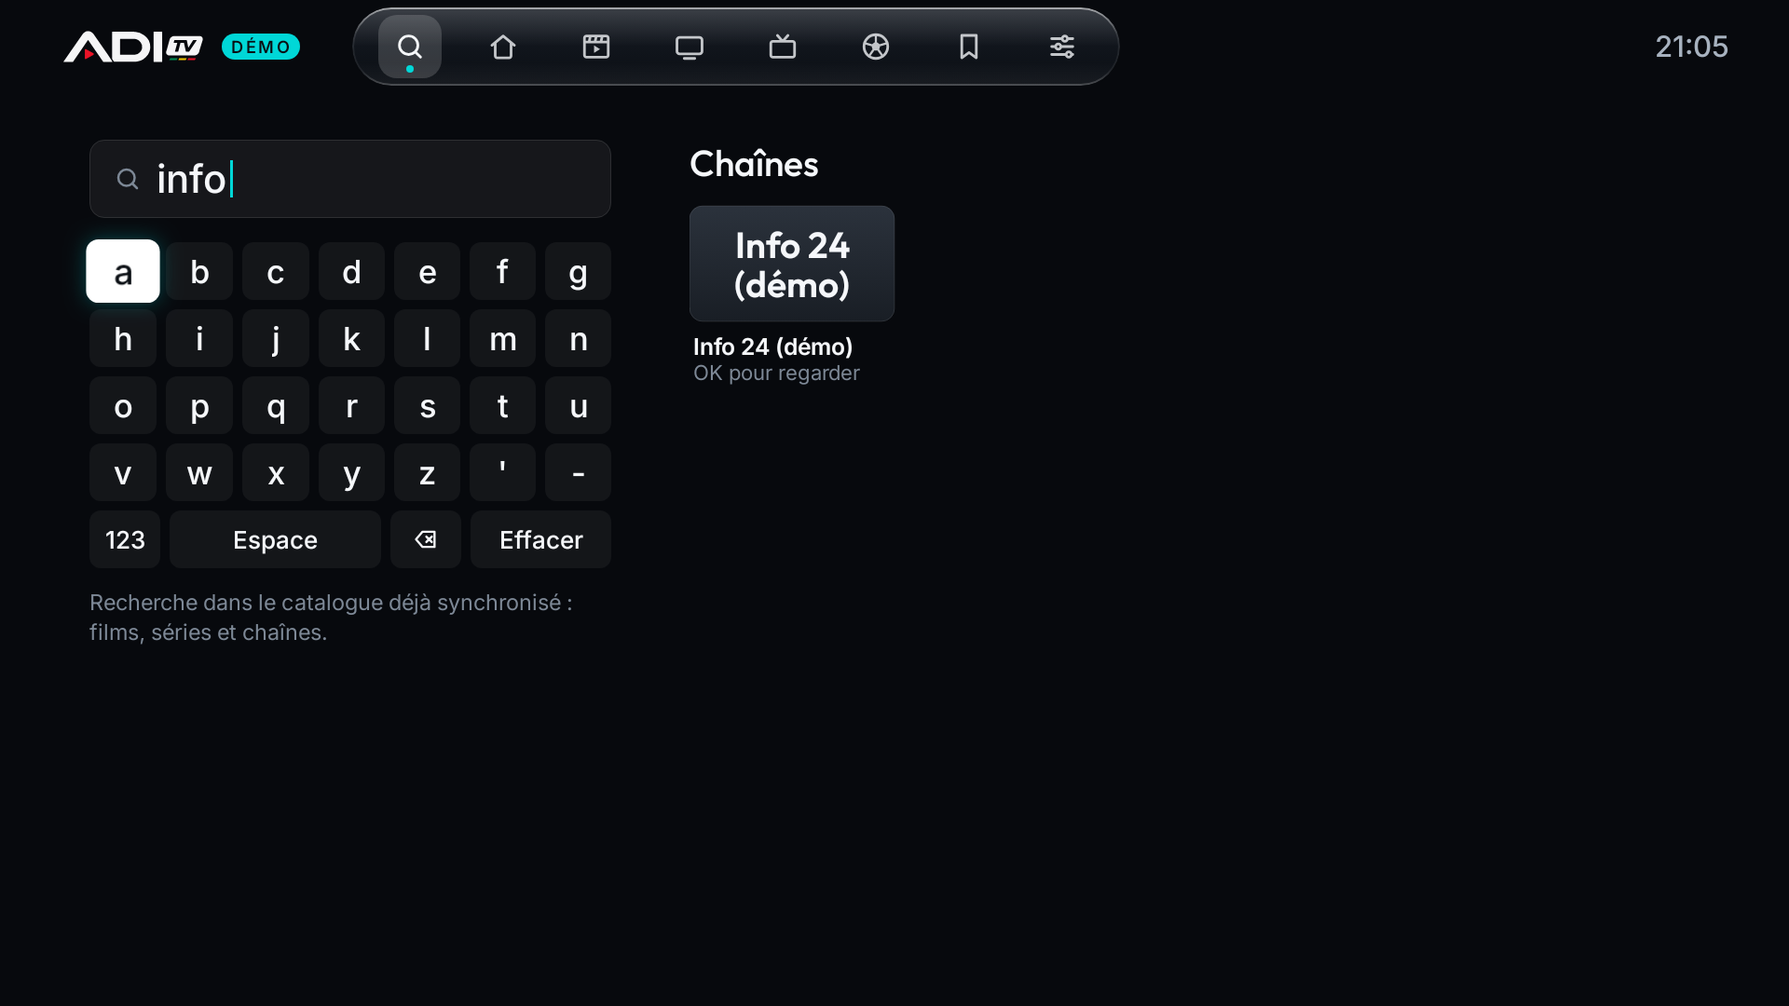
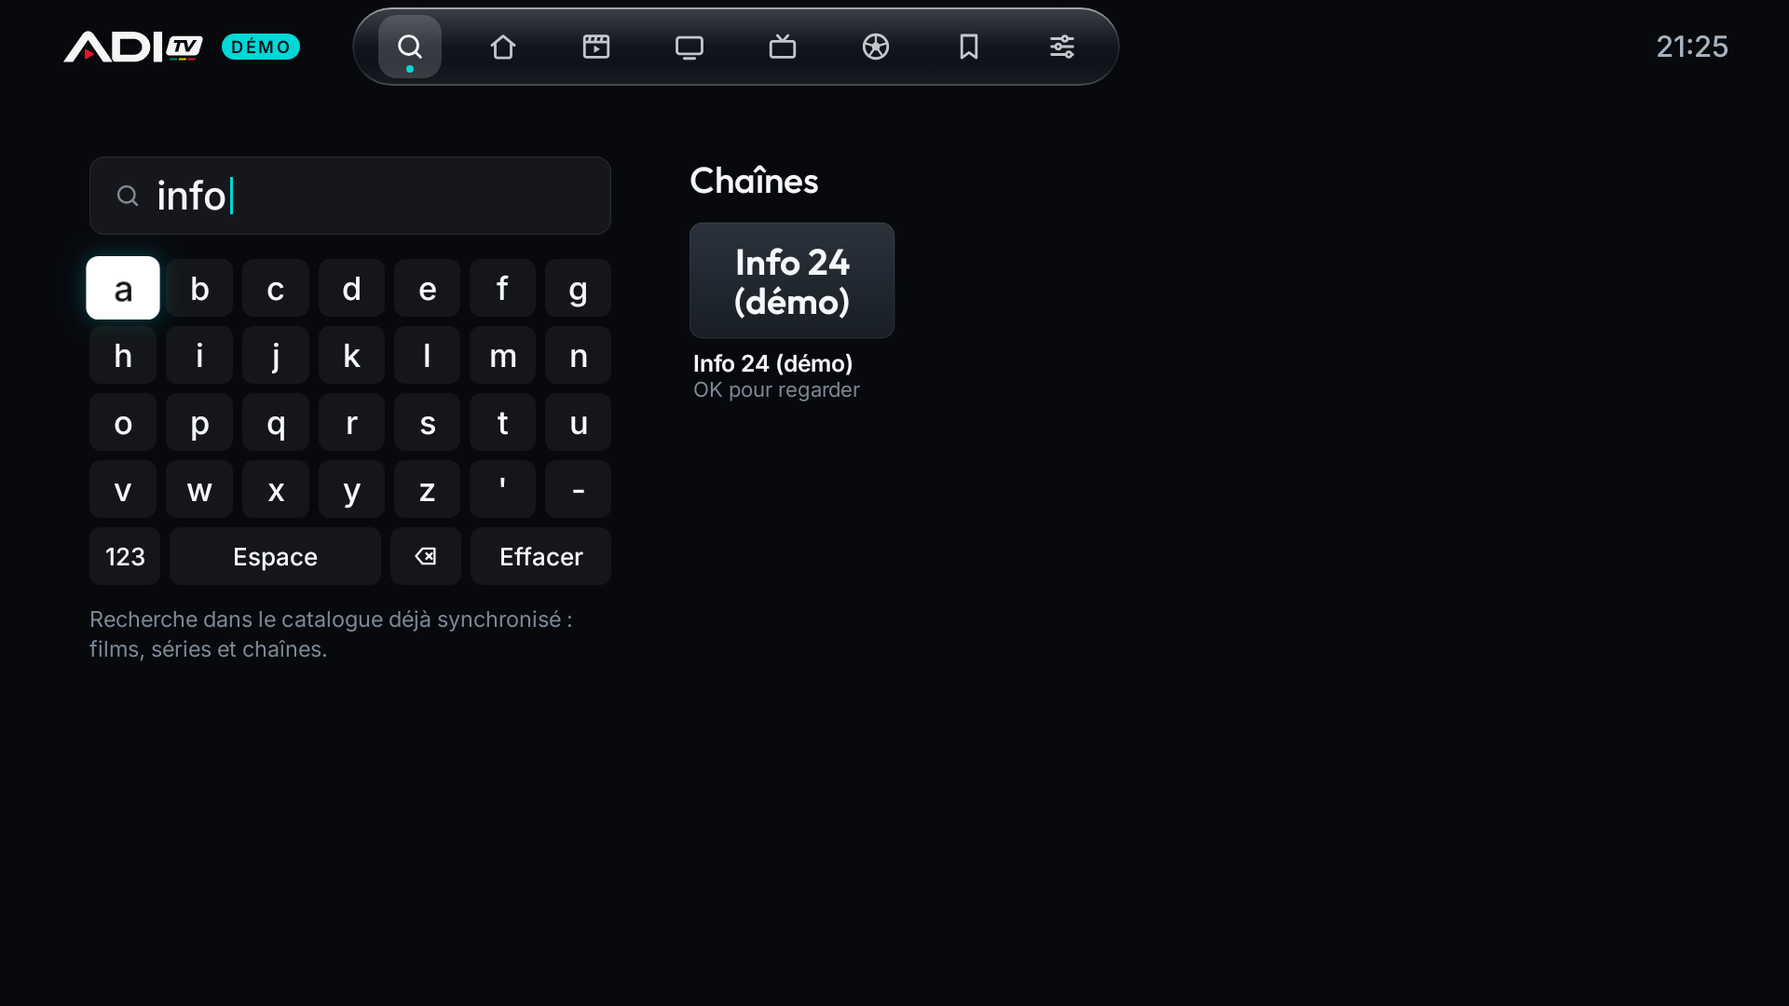
Menu comme avant + espace, FootAdi rapide, pas de pause au lancement, essais auto HTTP 458 (0.15.4)
Claude-Session: https://claude.ai/code/session_01AJPCu4ef6KQSU8xjVPyLKo

diff --git a/app/src/main/java/com/aditv/ui/foot/Broadcasts.kt b/app/src/main/java/com/aditv/ui/foot/Broadcasts.kt
@@ -30,10 +30,10 @@ object Broadcasts {
         return words.ifEmpty { listOf(n) }
     }
 
-    fun mentions(title: String, team: String): Boolean {
-        val t = " " + FootballRepository.norm(title) + " "
-        return tokens(team).any { k -> t.contains(" $k ") || (k.length >= 5 && t.contains(k)) }
-    }
+    fun mentions(title: String, team: String): Boolean = mentionsNorm(" " + FootballRepository.norm(title) + " ", tokens(team))
+
+    /** [t] : titre déjà normalisé et entouré d'espaces. */
+    private fun mentionsNorm(t: String, toks: List<String>) = toks.any { k -> t.contains(" $k ") || (k.length >= 5 && t.contains(k)) }
 
     /** Diffuseurs habituels en France (2026-2027), par compétition : utilisés seulement si le guide ne dit rien. */
     private val usual = mapOf(
@@ -42,18 +42,36 @@ object Broadcasts {
         61L to Regex("ligue ?1|bein|dazn"),
     )
 
-    suspend fun find(c: AppContainer, accountId: String, f: Fixture): List<Broadcast> {
+    suspend fun find(c: AppContainer, accountId: String, f: Fixture): List<Broadcast> = findAll(c, accountId, listOf(f))[f.id].orEmpty()
+
+    /**
+     * Toutes les chaînes de tous les matchs en UN passage : chaînes, correspondances et guide lus une seule fois,
+     * titres du guide normalisés une seule fois (avant : tout était refait pour chaque match → très lent sur la Stick).
+     */
+    suspend fun findAll(c: AppContainer, accountId: String, fixtures: List<Fixture>): Map<Long, List<Broadcast>> {
+        if (fixtures.isEmpty()) return emptyMap()
         val placed = LiveCatalog.placed(c, accountId)
         val mappings = c.db.live().mappings(accountId).associate { it.itemId to it.epgChannelId }
         val byEpg = placed.groupBy { (ch, _) -> mappings[ch.id] ?: ch.epgChannelId }
-        val progs = c.db.live().programmesStarting(accountId, f.kickoff - 45 * 60_000L, f.kickoff + 30 * 60_000L)
-        val hits = progs.filter { p -> mentions(p.title, f.home.name) && mentions(p.title, f.away.name) }
-            .flatMap { p -> byEpg[p.channelId].orEmpty() }
-        val fromGuide = rank(hits).map { Broadcast(it.first, ChannelFamilies.cleanName(it.first.title), true, it.second.french) }
-        if (fromGuide.isNotEmpty()) return fromGuide.distinctBy { it.channel.id }.take(6)
-        val r = usual[f.competition.id] ?: return emptyList()
-        return rank(placed.filter { (ch, p) -> p.family == Family.SPORT_FR && r.containsMatchIn(FootballRepository.norm(ch.title)) })
-            .take(4).map { Broadcast(it.first, ChannelFamilies.cleanName(it.first.title), false, it.second.french) }
+        val from = fixtures.minOf { it.kickoff } - 45 * 60_000L
+        val to = fixtures.maxOf { it.kickoff } + 30 * 60_000L
+        // Seulement les programmes des chaînes de l'abonnement, titres normalisés une fois.
+        val progs = c.db.live().programmesStarting(accountId, from, to)
+            .filter { byEpg.containsKey(it.channelId) }
+            .map { Triple(it.startUtc, it.channelId, " " + FootballRepository.norm(it.title) + " ") }
+        val sport = placed.filter { it.second.family == Family.SPORT_FR }.map { it to FootballRepository.norm(it.first.title) }
+        return fixtures.associate { f ->
+            val home = tokens(f.home.name); val away = tokens(f.away.name)
+            val hits = progs.filter { (start, _, t) -> start in (f.kickoff - 45 * 60_000L)..(f.kickoff + 30 * 60_000L) && mentionsNorm(t, home) && mentionsNorm(t, away) }
+                .flatMap { byEpg[it.second].orEmpty() }
+            val fromGuide = rank(hits).map { Broadcast(it.first, ChannelFamilies.cleanName(it.first.title), true, it.second.french) }.distinctBy { it.channel.id }.take(6)
+            f.id to fromGuide.ifEmpty {
+                val r = usual[f.competition.id]
+                if (r == null) emptyList()
+                else rank(sport.filter { r.containsMatchIn(it.second) }.map { it.first }).take(4)
+                    .map { Broadcast(it.first, ChannelFamilies.cleanName(it.first.title), false, it.second.french) }
+            }
+        }
     }
 
     private fun rank(list: List<Pair<CatalogCard, ChannelPlace>>) = list.distinctBy { it.first.id }

diff --git a/app/src/main/java/com/aditv/ui/shell/Shell.kt b/app/src/main/java/com/aditv/ui/shell/Shell.kt
@@ -1,6 +1,5 @@
 package com.aditv.ui.shell
 
-import androidx.compose.animation.animateContentSize
 import androidx.compose.ui.layout.layout
 import com.aditv.ui.design.liquidGlass
 import androidx.compose.ui.semantics.contentDescription
@@ -311,30 +310,33 @@ private val NavHalo = Glow(elevationColor = Color.White.copy(alpha = 0.22f), ele
 private fun NavItem(icon: Int, label: String, isSelected: Boolean, onClick: () -> Unit, modifier: Modifier) {
     var focused by remember { mutableStateOf(false) }
     val shape = RoundedCornerShape(10.dp)
-    // Au focus, la pastille blanche s'élargit et porte le nom (rien ne déborde sur l'écran en dessous).
-    Surface(
-        onClick = onClick,
-        modifier = (modifier.height(34.dp).widthIn(min = 34.dp).animateContentSize(tween(160)).onFocusChanged { focused = it.isFocused }
-            .semantics { contentDescription = label }).navSound(),
-        shape = ClickableSurfaceDefaults.shape(shape),
-        scale = ClickableSurfaceDefaults.scale(focusedScale = 1.08f),
-        glow = ClickableSurfaceDefaults.glow(focusedGlow = NavHalo),
-        colors = ClickableSurfaceDefaults.colors(
-            containerColor = if (isSelected) Color.White.copy(alpha = 0.16f) else Color.Transparent,
-            contentColor = if (isSelected) Aditv.Text else Aditv.Text.copy(alpha = 0.78f),
-            focusedContainerColor = Color.White, focusedContentColor = Aditv.OnLight,
-        ),
-    ) {
-        Box(Modifier.fillMaxHeight(), contentAlignment = Alignment.Center) {
-            Row(Modifier.padding(horizontal = if (focused) 11.dp else 8.5.dp), verticalAlignment = Alignment.CenterVertically) {
+    Box {
+        Surface(
+            onClick = onClick,
+            modifier = (modifier.size(34.dp).onFocusChanged { focused = it.isFocused }
+                .semantics { contentDescription = label }).navSound(),
+            shape = ClickableSurfaceDefaults.shape(shape),
+            scale = ClickableSurfaceDefaults.scale(focusedScale = 1.14f),
+            glow = ClickableSurfaceDefaults.glow(focusedGlow = NavHalo),
+            colors = ClickableSurfaceDefaults.colors(
+                containerColor = if (isSelected) Color.White.copy(alpha = 0.16f) else Color.Transparent,
+                contentColor = if (isSelected) Aditv.Text else Aditv.Text.copy(alpha = 0.78f),
+                focusedContainerColor = Color.White, focusedContentColor = Aditv.OnLight,
+            ),
+        ) {
+            Box(Modifier.fillMaxSize(), contentAlignment = Alignment.Center) {
                 Icon(painterResource(icon), contentDescription = null, modifier = Modifier.size(17.dp))
-                if (focused) {
-                    Spacer(Modifier.width(7.dp))
-                    Text(label, style = MaterialTheme.typography.bodyLarge.copy(fontWeight = FontWeight.SemiBold, fontSize = 11.sp), maxLines = 1)
-                }
+                if (isSelected && !focused) Box(Modifier.align(Alignment.BottomCenter).padding(bottom = 3.dp).size(4.dp).background(Aditv.Accent, CircleShape))
             }
-            if (isSelected && !focused) Box(Modifier.align(Alignment.BottomCenter).padding(bottom = 3.dp).size(4.dp).background(Aditv.Accent, CircleShape))
         }
+        // Nom sous l'icône sélectionnée à la télécommande (déborde de la capsule, sans la pousser).
+        if (focused) Text(label, style = MaterialTheme.typography.bodyLarge.copy(fontWeight = FontWeight.SemiBold, fontSize = 11.sp,
+            shadow = androidx.compose.ui.graphics.Shadow(Color.Black.copy(alpha = 0.8f), blurRadius = 8f)), color = Aditv.Text, maxLines = 1,
+            // Taille nulle pour la mise en page : le nom est centré sous l'icône sans élargir la capsule.
+            modifier = Modifier.align(Alignment.BottomCenter).layout { m, _ ->
+                val p = m.measure(androidx.compose.ui.unit.Constraints())
+                layout(0, 0) { p.place(-p.width / 2, 12.dp.roundToPx()) }
+            })
     }
 }
 

diff --git a/app/src/main/java/com/aditv/ui/player/PlayerViewModel.kt b/app/src/main/java/com/aditv/ui/player/PlayerViewModel.kt
@@ -93,6 +93,8 @@ class PlayerViewModel(
     private var fellBack = false
     private var sessionOpenedAt = 0L
     private var lastError: String? = null
+    /** Nouveaux essais automatiques quand le serveur limite les connexions (remis à zéro à chaque chaîne). */
+    private var busyRetries = 0
     private val choiceKey get() = currentItem?.variantKey ?: request?.contentId ?: contentId
 
     private val events = object : EngineEvents {
@@ -113,8 +115,21 @@ class PlayerViewModel(
                 play(r, resumeAtMs = pos, kind = EngineKind.VLC)
                 return
             }
+            // Serveur qui limite les connexions (HTTP 458, 429, 509, 503) : l'ancienne connexion (aperçu, chaîne précédente)
+            // met souvent quelques secondes à se libérer → jusqu'à 3 nouveaux essais automatiques (2 s, 4 s, 6 s).
+            if (com.aditv.playback.PlaybackErrors.serverBusy(message) && busyRetries < 3) {
+                busyRetries++
+                val r = request ?: return
+                engineNote = "Serveur occupé : nouvel essai ($busyRetries/3)…"
+                viewModelScope.launch {
+                    c.playback.release()
+                    kotlinx.coroutines.delay(2_000L * busyRetries)
+                    play(r, resumeAtMs = engine?.positionMs?.takeIf { !r.isLive && it > 0 } ?: r.startPositionMs, kind = engine?.kind)
+                }
+                return
+            }
             error = message
-            canRetry = retryable || retries < 1
+            canRetry = retryable || retries < 1 || com.aditv.playback.PlaybackErrors.serverBusy(message)
             persistSnapshot()
         }
         override fun onEnded() { viewModelScope.launch { persistSnapshot(); onEnded() } }
@@ -281,6 +296,7 @@ class PlayerViewModel(
     /** ↑ / ↓ en direct : chaîne précédente / suivante de la liste d'origine (une seule session à la fois). */
     fun zap(delta: Int) {
         if (!isLive || channels.isEmpty()) return
+        busyRetries = 0
         val key = currentItem?.variantKey
         val i = channels.indexOfFirst { it.id == currentItem?.id || (key != null && it.variantKey == key) }.coerceAtLeast(0)
         val next = channels[(i + delta + channels.size) % channels.size]
@@ -355,7 +371,7 @@ class PlayerViewModel(
     fun cancelNext() { nextJob?.cancel(); nextUp = null }
 
     fun retry() {
-        retries++
+        retries++; busyRetries = 0
         val r = request ?: run { start(); return }
         error = null
         play(r, resumeAtMs = engine?.positionMs?.takeIf { !r.isLive && it > 0 } ?: r.startPositionMs, kind = engine?.kind)

diff --git a/app/src/main/java/com/aditv/ui/player/PlayerScreen.kt b/app/src/main/java/com/aditv/ui/player/PlayerScreen.kt
@@ -99,6 +99,7 @@ fun PlayerScreen(session: Session.Active, contentId: String, fromStart: Boolean,
     val engine = vm.engine
     DisplayRateMatcher(vm.videoFps)
     var controlsVisible by remember { mutableStateOf(true) }
+    val openedAt = remember { System.currentTimeMillis() }
     var lastInteraction by remember { mutableLongStateOf(System.currentTimeMillis()) }
     var panel by remember { mutableStateOf(Panel.NONE) }
     var bannerUntil by remember { mutableLongStateOf(0L) }
@@ -188,6 +189,11 @@ fun PlayerScreen(session: Session.Active, contentId: String, fromStart: Boolean,
             .fillMaxSize()
             .background(Color.Black)
             .onPreviewKeyEvent { ev ->
+                // L'appui OK qui a lancé la chaîne (souvent maintenu → répété) ne doit pas atteindre Lecture/Pause :
+                // OK ignoré pendant la 1re seconde, et répétitions d'un OK maintenu toujours ignorées.
+                if (ev.key == Key.DirectionCenter || ev.key == Key.Enter || ev.key == Key.NumPadEnter) {
+                    if (System.currentTimeMillis() - openedAt < 1_000 || ev.nativeKeyEvent.repeatCount > 0) return@onPreviewKeyEvent true
+                }
                 if (ev.type != KeyEventType.KeyDown) return@onPreviewKeyEvent false
                 // Dernières 60 s de la minuterie : n'importe quelle touche prolonge de 30 min.
                 if ((sleepLeft ?: Long.MAX_VALUE) < 60_000) { sleepAt = System.currentTimeMillis() + 30 * 60_000L; return@onPreviewKeyEvent true }
@@ -229,7 +235,7 @@ fun PlayerScreen(session: Session.Active, contentId: String, fromStart: Boolean,
         if (buffering && vm.error == null) Column(Modifier.align(Alignment.Center), horizontalAlignment = Alignment.CenterHorizontally) {
             Spinner()
             Spacer(Modifier.height(12.dp))
-            Text(if (vm.isLive) "Connexion à la chaîne…" else "Chargement…", style = MaterialTheme.typography.bodyLarge.copy(fontWeight = FontWeight.Medium), color = Aditv.TextSecondary)
+            Text(vm.engineNote?.takeIf { it.startsWith("Serveur occupé") } ?: if (vm.isLive) "Connexion à la chaîne…" else "Chargement…", style = MaterialTheme.typography.bodyLarge.copy(fontWeight = FontWeight.Medium), color = Aditv.TextSecondary)
         }
 
         // Saut ±10 s commandes masquées : retour visuel discret au centre.

diff --git a/app/src/main/java/com/aditv/playback/PlaybackErrors.kt b/app/src/main/java/com/aditv/playback/PlaybackErrors.kt
@@ -13,6 +13,8 @@ object PlaybackErrors {
             if (c is HttpDataSource.InvalidResponseCodeException) return when (c.responseCode) {
                 401, 403 -> "Le serveur refuse ce flux (HTTP ${c.responseCode}) : accès expiré, contenu non autorisé ou nombre de connexions atteint."
                 404 -> "Flux introuvable sur le serveur (HTTP 404)."
+                // 458 (non standard), 429, 509 : le serveur limite les connexions (autre appareil, ou ancienne connexion pas encore libérée).
+                429, 458, 509 -> "Le serveur limite les connexions (HTTP ${c.responseCode}) : limite de l'abonnement atteinte ou ancienne connexion pas encore libérée."
                 in 500..599 -> "Le serveur a renvoyé une erreur (HTTP ${c.responseCode})."
                 else -> "Réponse inattendue du serveur (HTTP ${c.responseCode})."
             }
@@ -34,6 +36,15 @@ object PlaybackErrors {
             else -> "Lecture interrompue (${e.errorCodeName})."
         }
     }
+
+    /** Codes pour lesquels un nouvel essai après quelques secondes a de bonnes chances de passer. */
+    private val busyCodes = setOf(429, 458, 503, 509)
+    fun serverBusy(e: PlaybackException): Boolean {
+        var c: Throwable? = e
+        while (c != null) { if (c is HttpDataSource.InvalidResponseCodeException) return c.responseCode in busyCodes; c = c.cause }
+        return false
+    }
+    fun serverBusy(message: String): Boolean = Regex("""HTTP (\d{3})""").find(message)?.groupValues?.get(1)?.toIntOrNull() in busyCodes
 
     /** Format refusé par Media3 (conteneur ou décodage) : seul cas où « Auto » bascule vers VLC. */
     fun formatProblem(e: PlaybackException): Boolean = e.errorCode in setOf(

diff --git a/app/src/main/java/com/aditv/ui/foot/FootAdiScreen.kt b/app/src/main/java/com/aditv/ui/foot/FootAdiScreen.kt
@@ -122,7 +122,7 @@ class FootViewModel(private val c: AppContainer, private val session: Session.Ac
                         val demo = com.aditv.ui.live.LiveCatalog.placed(c, accountId).take(2)
                             .map { Broadcast(it.first, com.aditv.data.live.ChannelFamilies.cleanName(it.first.title), true, true) }
                         list.associate { it.id to demo }
-                    } else list.associate { it.id to runCatching { Broadcasts.find(c, accountId, it) }.getOrDefault(emptyList()) }
+                    } else runCatching { Broadcasts.findAll(c, accountId, list) }.getOrDefault(emptyMap())
                 }
             } catch (e: kotlinx.coroutines.CancellationException) { throw e }
             catch (e: FootballError) { error = e.message; if (fixtures == null) fixtures = emptyList() }
@@ -181,7 +181,7 @@ fun FootAdiScreen(session: Session.Active, onPlayLive: (String, String?) -> Unit
         back = null
     }
     Box(Modifier.fillMaxSize()) {
-    Column(Modifier.fillMaxSize().padding(start = 48.dp, end = 48.dp, top = 58.dp)) {
+    Column(Modifier.fillMaxSize().padding(start = 48.dp, end = 48.dp, top = 84.dp)) {
         // Jours, puis « Mes équipes ».
         Row(Modifier.focusRestorer(todayChip).padding(vertical = 4.dp, horizontal = 2.dp), horizontalArrangement = Arrangement.spacedBy(8.dp)) {
             listOf(-2, -1, 0, 1, 2, 3).forEach { d ->

diff --git a/app/src/test/java/com/aditv/ui/SpotInfoLayoutTest.kt b/app/src/test/java/com/aditv/ui/SpotInfoLayoutTest.kt
@@ -20,7 +20,7 @@ import org.junit.Test
 import org.junit.runner.RunWith
 import org.robolectric.annotation.Config
 
-/** La vedette (titre + infos + résumé) ne doit jamais descendre sur « Tout parcourir » / les rangées (place : 176 dp). */
+/** La vedette (titre + infos + résumé) ne doit jamais descendre sur « Tout parcourir » / les rangées (place : 158 dp). */
 @RunWith(AndroidJUnit4::class)
 @org.robolectric.annotation.GraphicsMode(org.robolectric.annotation.GraphicsMode.Mode.NATIVE)
 @Config(sdk = [35], qualifiers = "w960dp-h540dp-land-xhdpi")
@@ -41,6 +41,6 @@ class SpotInfoLayoutTest {
     @Test fun longTitleAndOverviewFit() {
         val h = height(Spot("k", "Children of the Corn : The Gathering of the Damned", kicker = "Ajouts récents", meta = listOf("1998", "Horreur", "1 h 23"),
             overview = "Six étudiants se trompent de route et arrivent dans une ville déserte. Mais ils découvrent bientôt qu'au cœur des champs se cache un culte meurtrier, dont les enfants sont les gardiens impitoyables et sans pitié.", lang = "fr"))
-        println("SPOT h=$h"); assertTrue("vedette trop haute : $h dp", h <= 176f)
+        println("SPOT h=$h"); assertTrue("vedette trop haute : $h dp", h <= 158f)
     }
 }

diff --git a/app/src/main/java/com/aditv/data/football/FootballRepository.kt b/app/src/main/java/com/aditv/data/football/FootballRepository.kt
@@ -30,7 +30,8 @@ class FootballRepository(
         )
         /** Équipes suivies (toujours affichées, en tête avec « Mes équipes »). */
         private val followed = listOf("barcelona", "real madrid", "paris saint germain", "manchester city", "aston villa", "senegal")
-        fun norm(s: String) = Normalizer.normalize(s, Normalizer.Form.NFD).replace(Regex("\\p{M}+"), "").lowercase().replace(Regex("[^a-z0-9 ]"), " ").replace(Regex(" +"), " ").trim()
+        private val marks = Regex("\\p{M}+"); private val nonAlnum = Regex("[^a-z0-9 ]"); private val spaces = Regex(" +")
+        fun norm(s: String) = spaces.replace(nonAlnum.replace(marks.replace(Normalizer.normalize(s, Normalizer.Form.NFD), "").lowercase(), " "), " ").trim()
         fun isFollowed(f: Fixture) = listOf(f.home.name, f.away.name).any { n -> followed.any { norm(n).startsWith(it) || norm(n) == it } }
         private fun nationalTeam(f: Fixture) = listOf(f.home.name, f.away.name).any { norm(it) in setOf("france", "senegal") }
         fun keep(f: Fixture) = f.competition.id in COMPETITIONS || f.competition.country.equals("Senegal", true) || nationalTeam(f) || isFollowed(f)

diff --git a/app/src/main/java/com/aditv/ui/live/LiveScreen.kt b/app/src/main/java/com/aditv/ui/live/LiveScreen.kt
@@ -204,7 +204,7 @@ fun LiveScreen(session: Session.Active, onPlayLive: (String, String?) -> Unit, o
         Box(Modifier.fillMaxSize().background(Brush.horizontalGradient(0f to Aditv.Bg.copy(alpha = 0.97f), 0.45f to Aditv.Bg.copy(alpha = 0.9f), 0.66f to Aditv.Bg.copy(alpha = 0.25f), 0.88f to Color.Transparent)))
         Box(Modifier.fillMaxSize().background(Brush.verticalGradient(0.5f to Color.Transparent, 1f to Aditv.Bg.copy(alpha = 0.92f))))
 
-        Row(Modifier.fillMaxSize().padding(start = 40.dp, end = 40.dp, top = 56.dp, bottom = 16.dp)) {
+        Row(Modifier.fillMaxSize().padding(start = 40.dp, end = 40.dp, top = 84.dp, bottom = 16.dp)) {
             // ---------- familles ----------
             Column(Modifier.width(196.dp).fillMaxHeight()) {
                 Text("En direct", fontFamily = Outfit, fontWeight = FontWeight.SemiBold, fontSize = 24.sp, color = Aditv.Text)

diff --git a/app/src/main/java/com/aditv/ui/settings/SettingsScreen.kt b/app/src/main/java/com/aditv/ui/settings/SettingsScreen.kt
@@ -57,7 +57,7 @@ fun SettingsScreen(session: Session.Active) {
     val chrome = com.aditv.ui.shell.LocalNavChrome.current
     val scrolled by remember { androidx.compose.runtime.derivedStateOf { scroll.value > 40 } }
     LaunchedEffect(scrolled) { chrome.scrolled = scrolled }
-    Column(Modifier.fillMaxSize().verticalScroll(scroll).padding(start = 48.dp, top = 74.dp, end = 48.dp, bottom = 40.dp), verticalArrangement = Arrangement.spacedBy(14.dp)) {
+    Column(Modifier.fillMaxSize().verticalScroll(scroll).padding(start = 48.dp, top = 84.dp, end = 48.dp, bottom = 40.dp), verticalArrangement = Arrangement.spacedBy(14.dp)) {
         Text("Réglages", style = MaterialTheme.typography.displaySmall, color = Aditv.Text)
 
         Section("Compte fournisseur") {

diff --git a/app/src/main/java/com/aditv/ui/home/HomeScreen.kt b/app/src/main/java/com/aditv/ui/home/HomeScreen.kt
@@ -313,7 +313,7 @@ fun HomeScreen(accountId: String, isDemo: Boolean, onOpen: (String) -> Unit, onP
     val shown = if (heroFocused || focusedSpot == null) heroSpot else focusedSpot
     Box(Modifier.fillMaxSize()) {
         com.aditv.ui.design.CinemaBackdrop(shown, reduced)
-        if (state.loaded && (state.hero.isNotEmpty() || state.rows.isNotEmpty())) com.aditv.ui.design.SpotInfo(shown, Modifier.padding(start = 48.dp, top = 66.dp))
+        if (state.loaded && (state.hero.isNotEmpty() || state.rows.isNotEmpty())) com.aditv.ui.design.SpotInfo(shown, Modifier.padding(start = 48.dp, top = 84.dp))
 
         if (state.loaded && state.hero.isEmpty() && state.rows.isEmpty() && state.resume.isEmpty()) {
             EmptyCatalog(progress, state.syncErrors)

diff --git a/app/src/main/java/com/aditv/ui/library/MyListScreen.kt b/app/src/main/java/com/aditv/ui/library/MyListScreen.kt
@@ -79,7 +79,7 @@ fun MyListScreen(accountId: String, onOpen: (String) -> Unit, onPlayLive: (Strin
 
     LazyVerticalGrid(
         state = grid, columns = GridCells.Fixed(if (wide) 4 else 6), modifier = Modifier.fillMaxSize(),
-        contentPadding = PaddingValues(start = 48.dp, end = 48.dp, top = 74.dp, bottom = 40.dp),
+        contentPadding = PaddingValues(start = 48.dp, end = 48.dp, top = 84.dp, bottom = 40.dp),
         horizontalArrangement = Arrangement.spacedBy(12.dp), verticalArrangement = Arrangement.spacedBy(16.dp),
     ) {
         item(key = "head", span = { GridItemSpan(maxLineSpan) }) {
